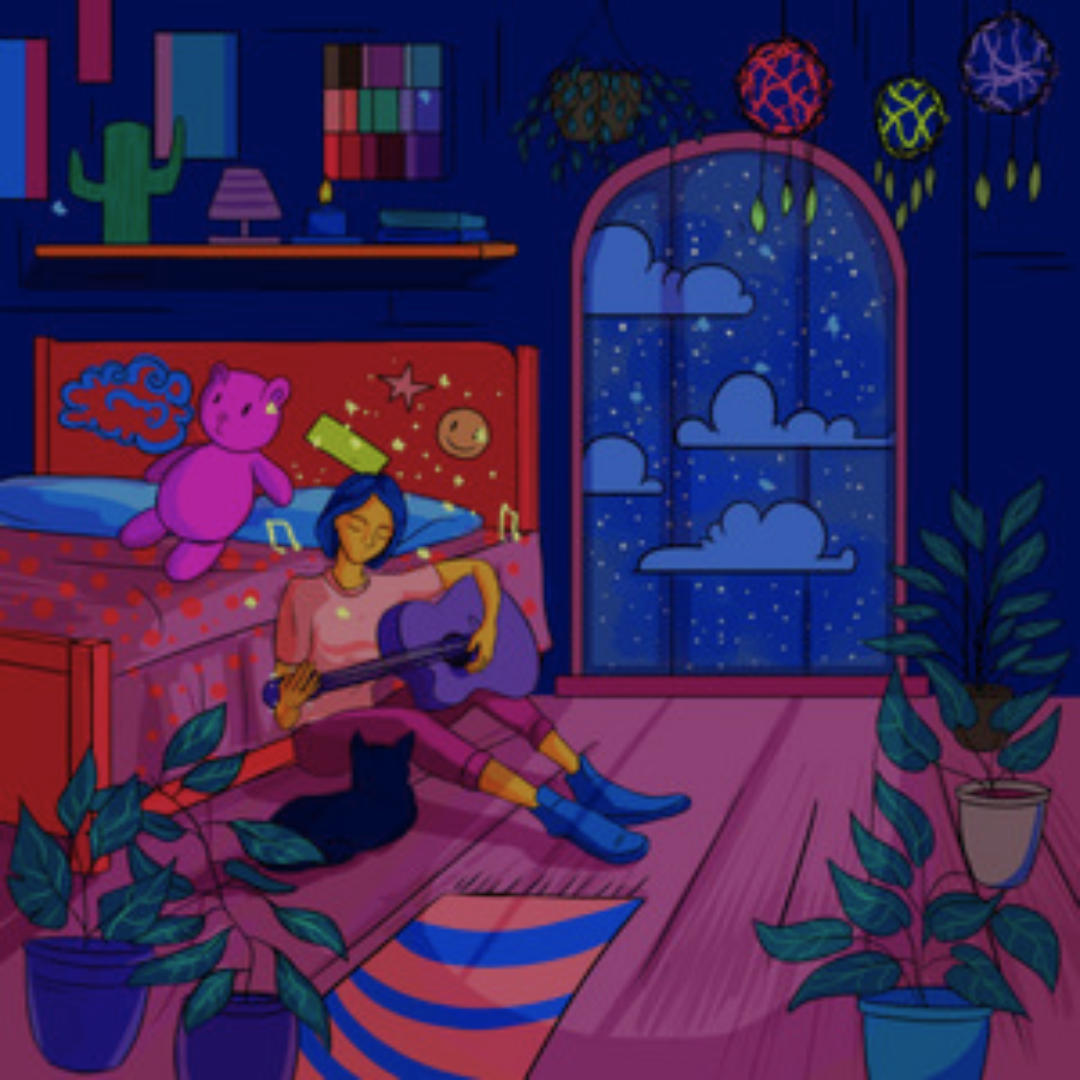
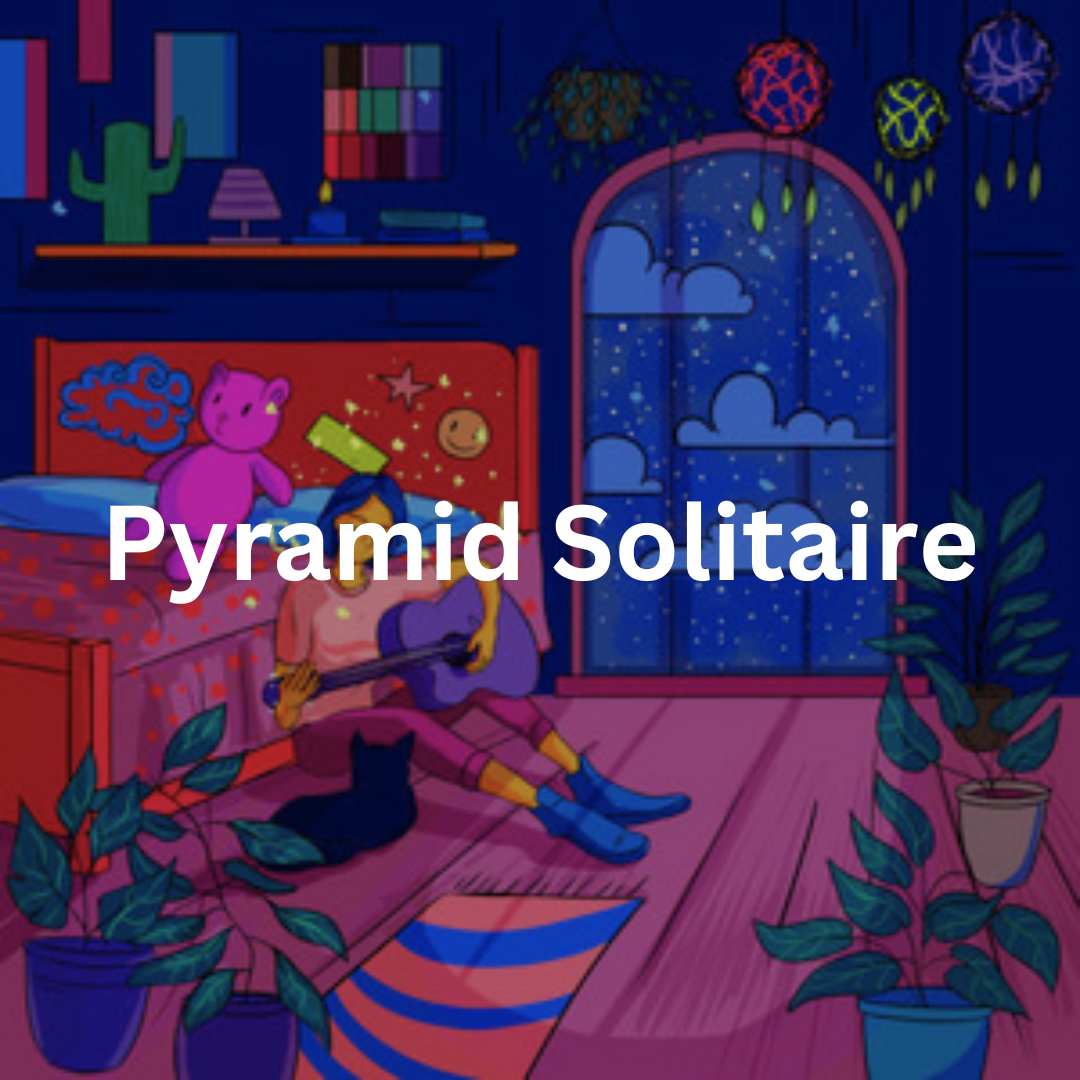
Adding New Projects

Changed region(s): [[0.5194, 0.4583, 0.9167, 0.55], [0.0917, 0.4583, 0.4889, 0.5806]]

diff --git a/src/components/Banner.js b/src/components/Banner.js
@@ -11,7 +11,7 @@ export const Banner = () => {
   const [text, setText] = useState('');
   const [delta, setDelta] = useState(300 - Math.random() * 100);
   const [index, setIndex] = useState(1);
-  const toRotate = ["Aspiring Software Engineer", "Frontend Developer" ];
+  const toRotate = ["Aspiring Software Engineer"];
   const period = 2000;
 
   useEffect(() => {
@@ -57,7 +57,7 @@ export const Banner = () => {
               {({ isVisible }) =>
               <div className={isVisible ? "animate__animated animate__fadeIn" : ""}>
                 <h1>{`Hi! I'm Ishhita Dhiman`}</h1> 
-                <h2><span className="txt-rotate" dataPeriod="1000" data-rotate='[ "Aspiring Software Developer", "Frontend Developer"]'><span className="wrap">{text}</span></span>
+                <h2><span className="txt-rotate" dataPeriod="1000" data-rotate='[ "Aspiring Software Developer"]'><span className="wrap">{text}</span></span>
                 </h2>
                   <p style={{ textAlign: "justify" }}>Welcome to my Portfolio! I am a final-year undergraduate pursuing Bachelor's in Technology in Computer Science from JIIT, Noida. Having worked on a live project in my University and interning at LogiqueCode has given me an exposure to significance of teamwork and collaboration. I am a passionate problem solver and willing to learn something new everyday. During my graduation, I have honed my coding skills by meticulously practicing data structures and algorithms and building projects that solve real-world problems. I am also intrigued by the current trends in technology which has motivated me to dive into the field of automation and DevOps. I have always been a hardworking student, which is reflected in my academic grades and I have sharpened my ability to dive into new domains and hone my skills in them in short period of time. I am always open to new opportunities and conversations, so let's connect!</p>
               </div>}

diff --git a/src/components/Projects.js b/src/components/Projects.js
@@ -20,6 +20,18 @@ export const Projects = () => {
       url: "https://automatic-weather-monitoring-system.netlify.app/"
     },
     {
+      title: "Pyramid Solitaire",
+      description: "Data Structures & Algorithms",
+      imgUrl: projImg5,
+      url:"https://github.com/ishhitadhiman360/Pyramid-Solitaire"
+    },
+    {
+      title: "TaskFlow",
+      description: "DevOps & Automation",
+      imgUrl: projImg6,
+      url : "https://github.com/ishhitadhiman360/ToDo-List"
+    },
+    {
       title: "",
       description: "A MERN Stack website developed in a team of 4 members as part of the Minor project in 3rd year. This project uses ReactJS for frontend and MongoDB for database.",
       imgUrl: projImg2,
@@ -36,19 +48,7 @@ export const Projects = () => {
       description: "The project utilizes HTML to structure the different sections of the page, CSS to style and layout the elements, and JavaScript to add interactivity and dynamic features. This project is my attempt to demonstrate my proficiency in HTML, CSS, and JavaScript, as well as my ability to replicate the visual and interactive aspects of a popular web application. One of my personal favourites :)",
       imgUrl: projImg4,
       url: "https://spotify-dummy-page.vercel.app/"
-    },
-    {
-      title: "Speed Route",
-      description: "DSA - Graphs (Dijkstra Algorithm)",
-      imgUrl: projImg5,
-      url:""
-    },
-    {
-      title: "My portfolio!",
-      description: "React.js",
-      imgUrl: projImg6,
-      url : ""
-    },
+    }
   ];
 
   return (

diff --git a/src/components/Skills.js b/src/components/Skills.js
@@ -52,6 +52,10 @@ export const Skills = () => {
                             </div>
                             <div className="item">
                                 <img src={bulb} alt="Image" style={{height: 140, width: 150}}/>
+                                <h5>DevOps & Git</h5>
+                            </div>
+                            <div className="item">
+                                <img src={bulb} alt="Image" style={{height: 140, width: 150}}/>
                                 <h5>Frontend Development</h5>
                             </div>
                         </Carousel>
